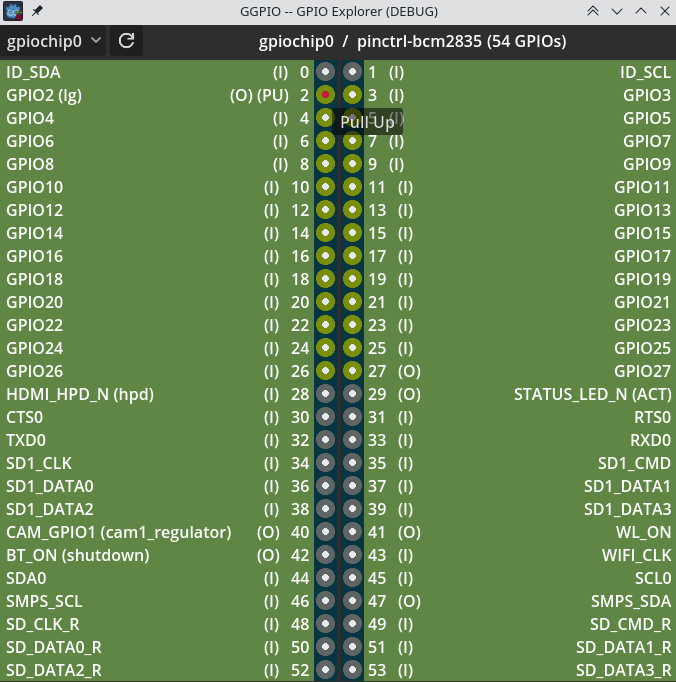
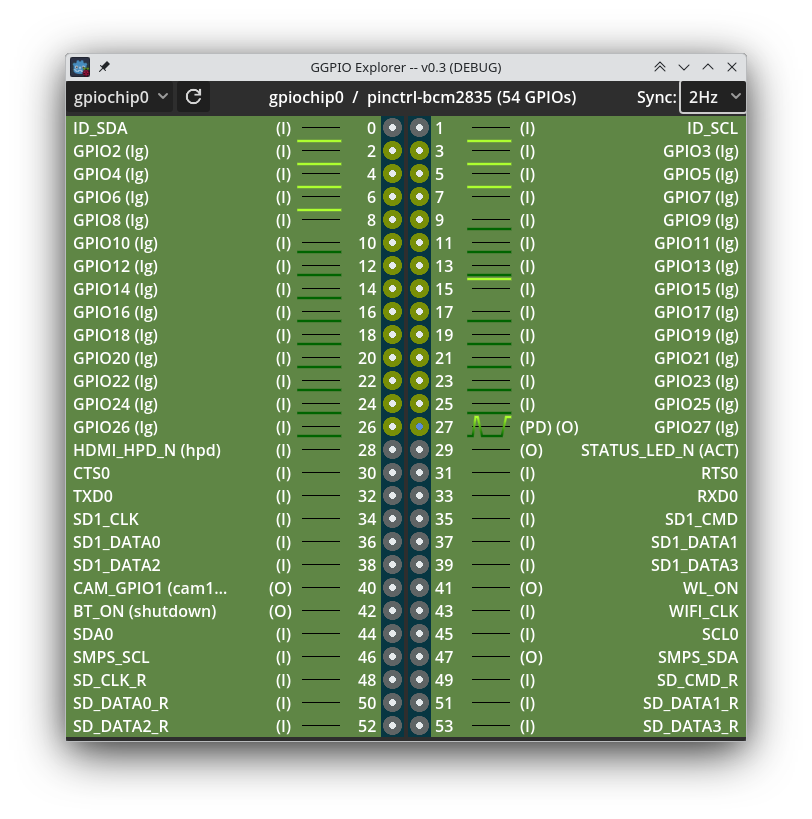
[project] bumped to 0.3 and added changelog to readme

diff --git a/readme.md b/readme.md
@@ -3,7 +3,7 @@
 </p>
 
 # Godot-GPIO
-A [Godot](https://godotengine.org/)/GDScript addon to access GPIO on linux hosts (Raspberry Pi, Arduino, etc).
+A [Godot](https://godotengine.org/)/GDScript addon to access GPIO on linux hosts (eg Raspberry Pi).
 
 [!["Buy Me A Coffee"](https://buymeacoffee.com/assets/img/custom_images/yellow_img.png)](https://www.buymeacoffee.com/valbisson)
 
@@ -43,7 +43,22 @@ some devices may appears as GPIO while not being mentioned in the diagram above.
 - `ggpio.lg` this is where the low level `lg`/`rpio` interface is implemented. The flow is to create an `LGCommand` and `run` it on an `SBC`.
 
 # Usage
-Check out scenes in the [samples](./samples) directory. Couple points:
+In a nutshell:
+```gdscript
+var sbc_hostname := 'rpi.local'
+var sbc := ggpio.SBC.new(sbc_hostname)
+var chip := sbc.open_chip('0')
+gpio27 = chip.open_gpio(
+	27,
+	ggpio.Mode.OUTPUT,
+	ggpio.LineFlag.PULL_DOWN,
+	ggpio.Level.LOW
+)
+gpio27.write(ggpio.Level.HIGH)
+assert(gpio27.read() == ggpio.Level.HIGH)
+```
+
+For more, check out scenes in the [samples](./samples) directory. Couple points:
 
 - Each scene can be played independently (`F6`)
 - the main scene is *GPIO explorer*, kind of a live version of the pinout above,
@@ -236,3 +251,16 @@ If the lib picks up, we'll plug a strategy pattern in, and add a native rpgio im
 Until then, this is a quick[1] and dirty way to get Godot to play with the Pi.
 
 [1] quick to implement, not quick to run.
+
+
+## Changelog
+
+### 0.3
+- moved all `lg` commands into the `ggpio.lg` namespace
+- added `SBC` class, refactored `Chip` & `GPIO` into an object oriented API
+
+### 0.2
+- ggpio explorer and fixes
+
+### 0.1
+- first working version
